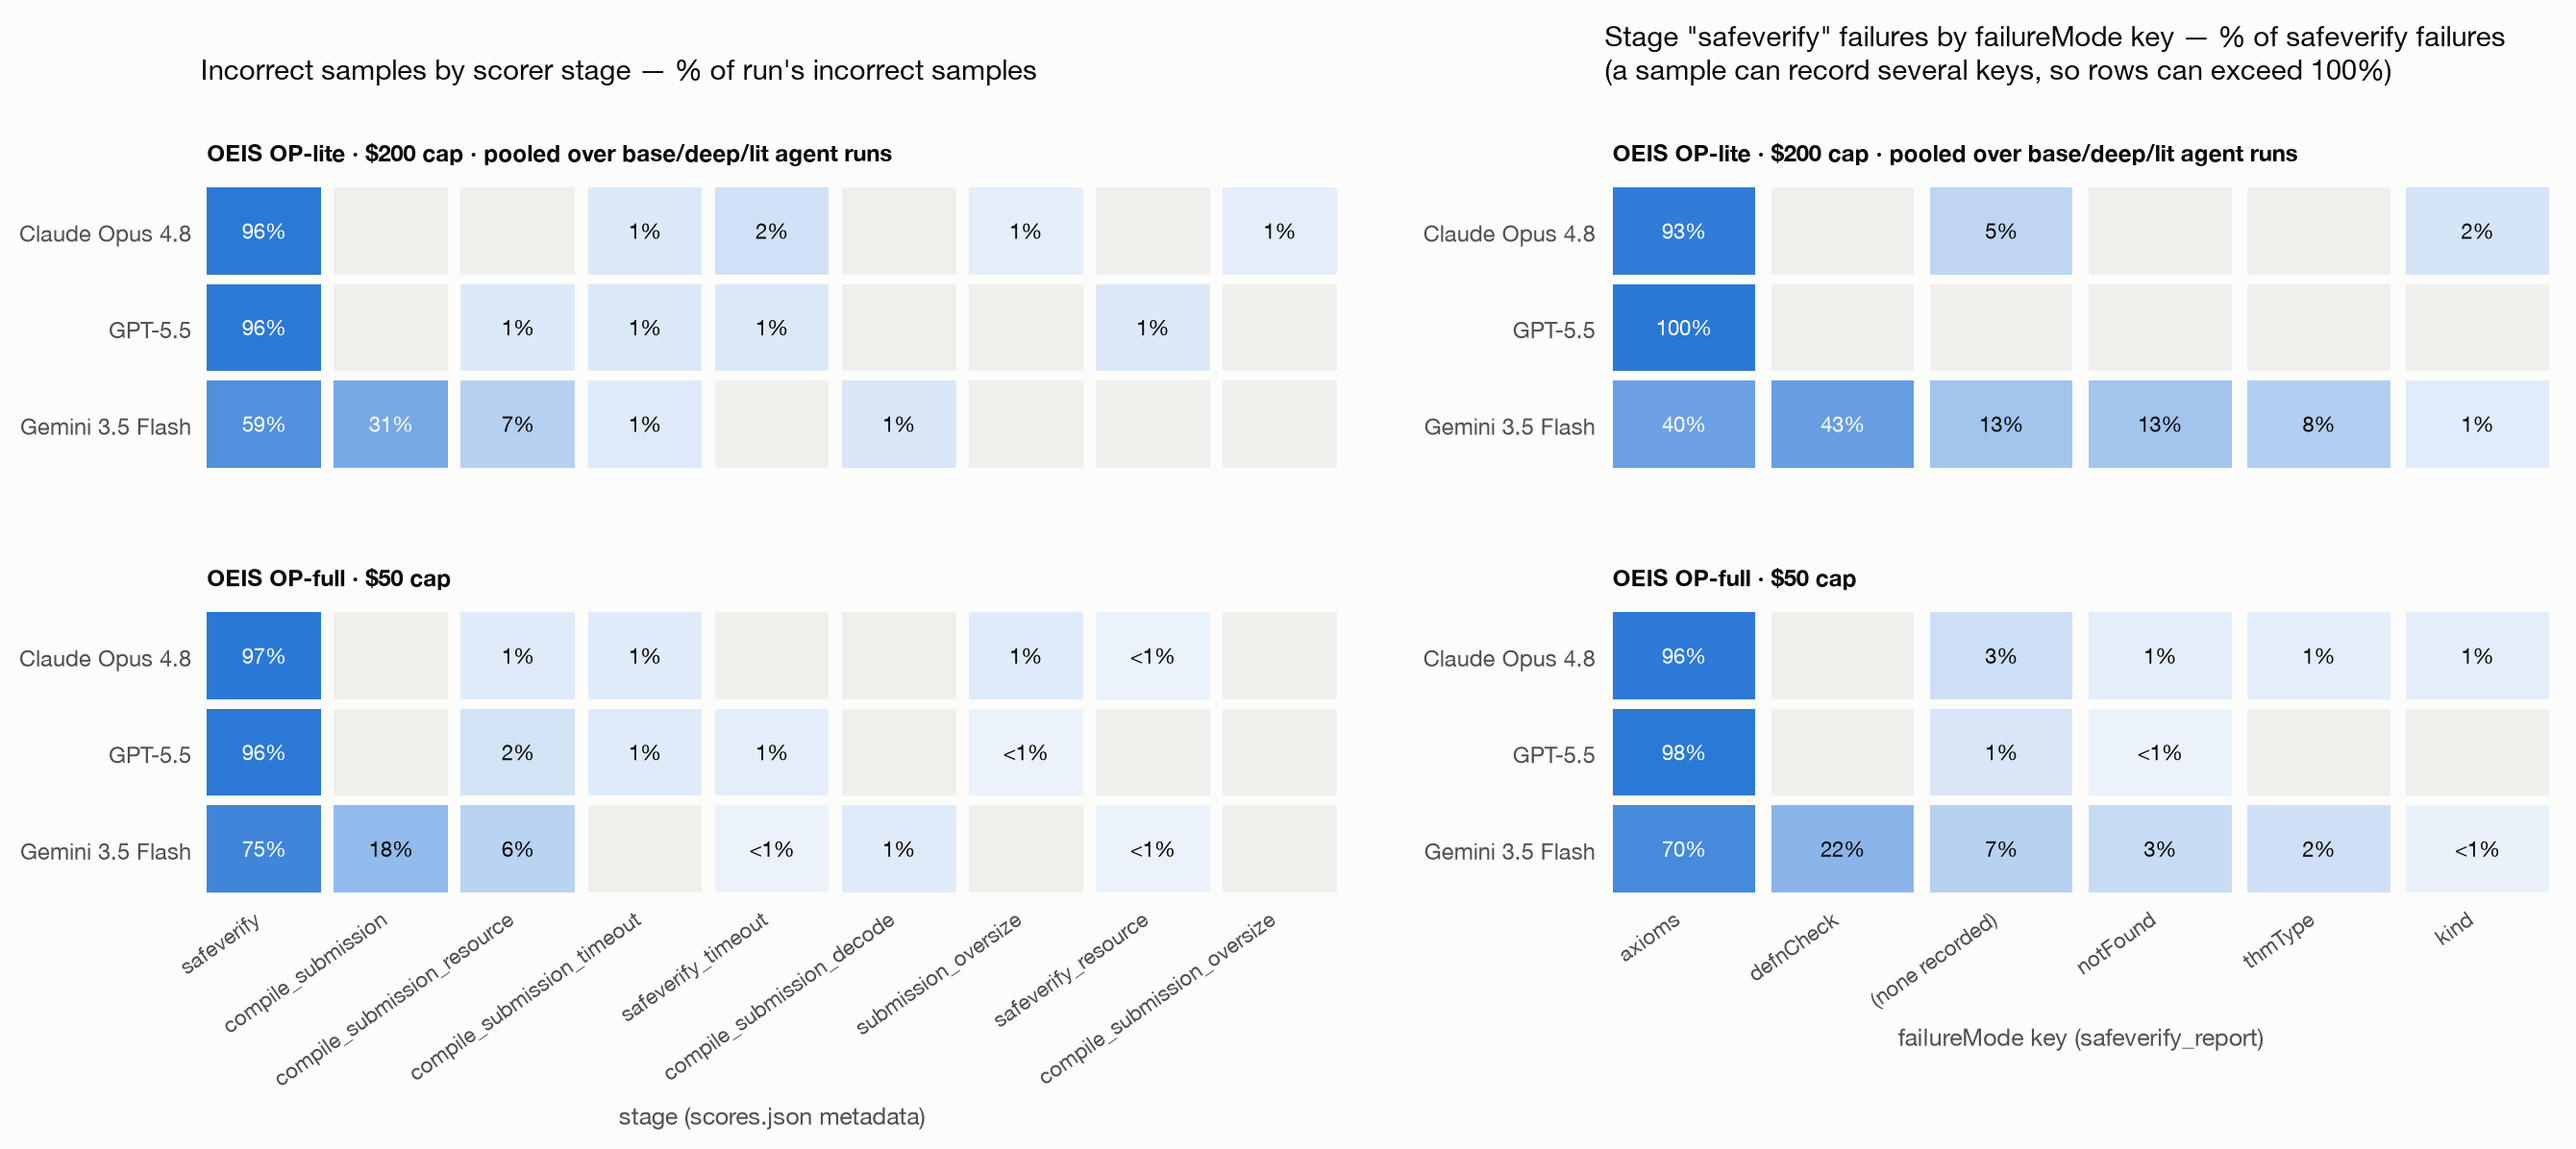
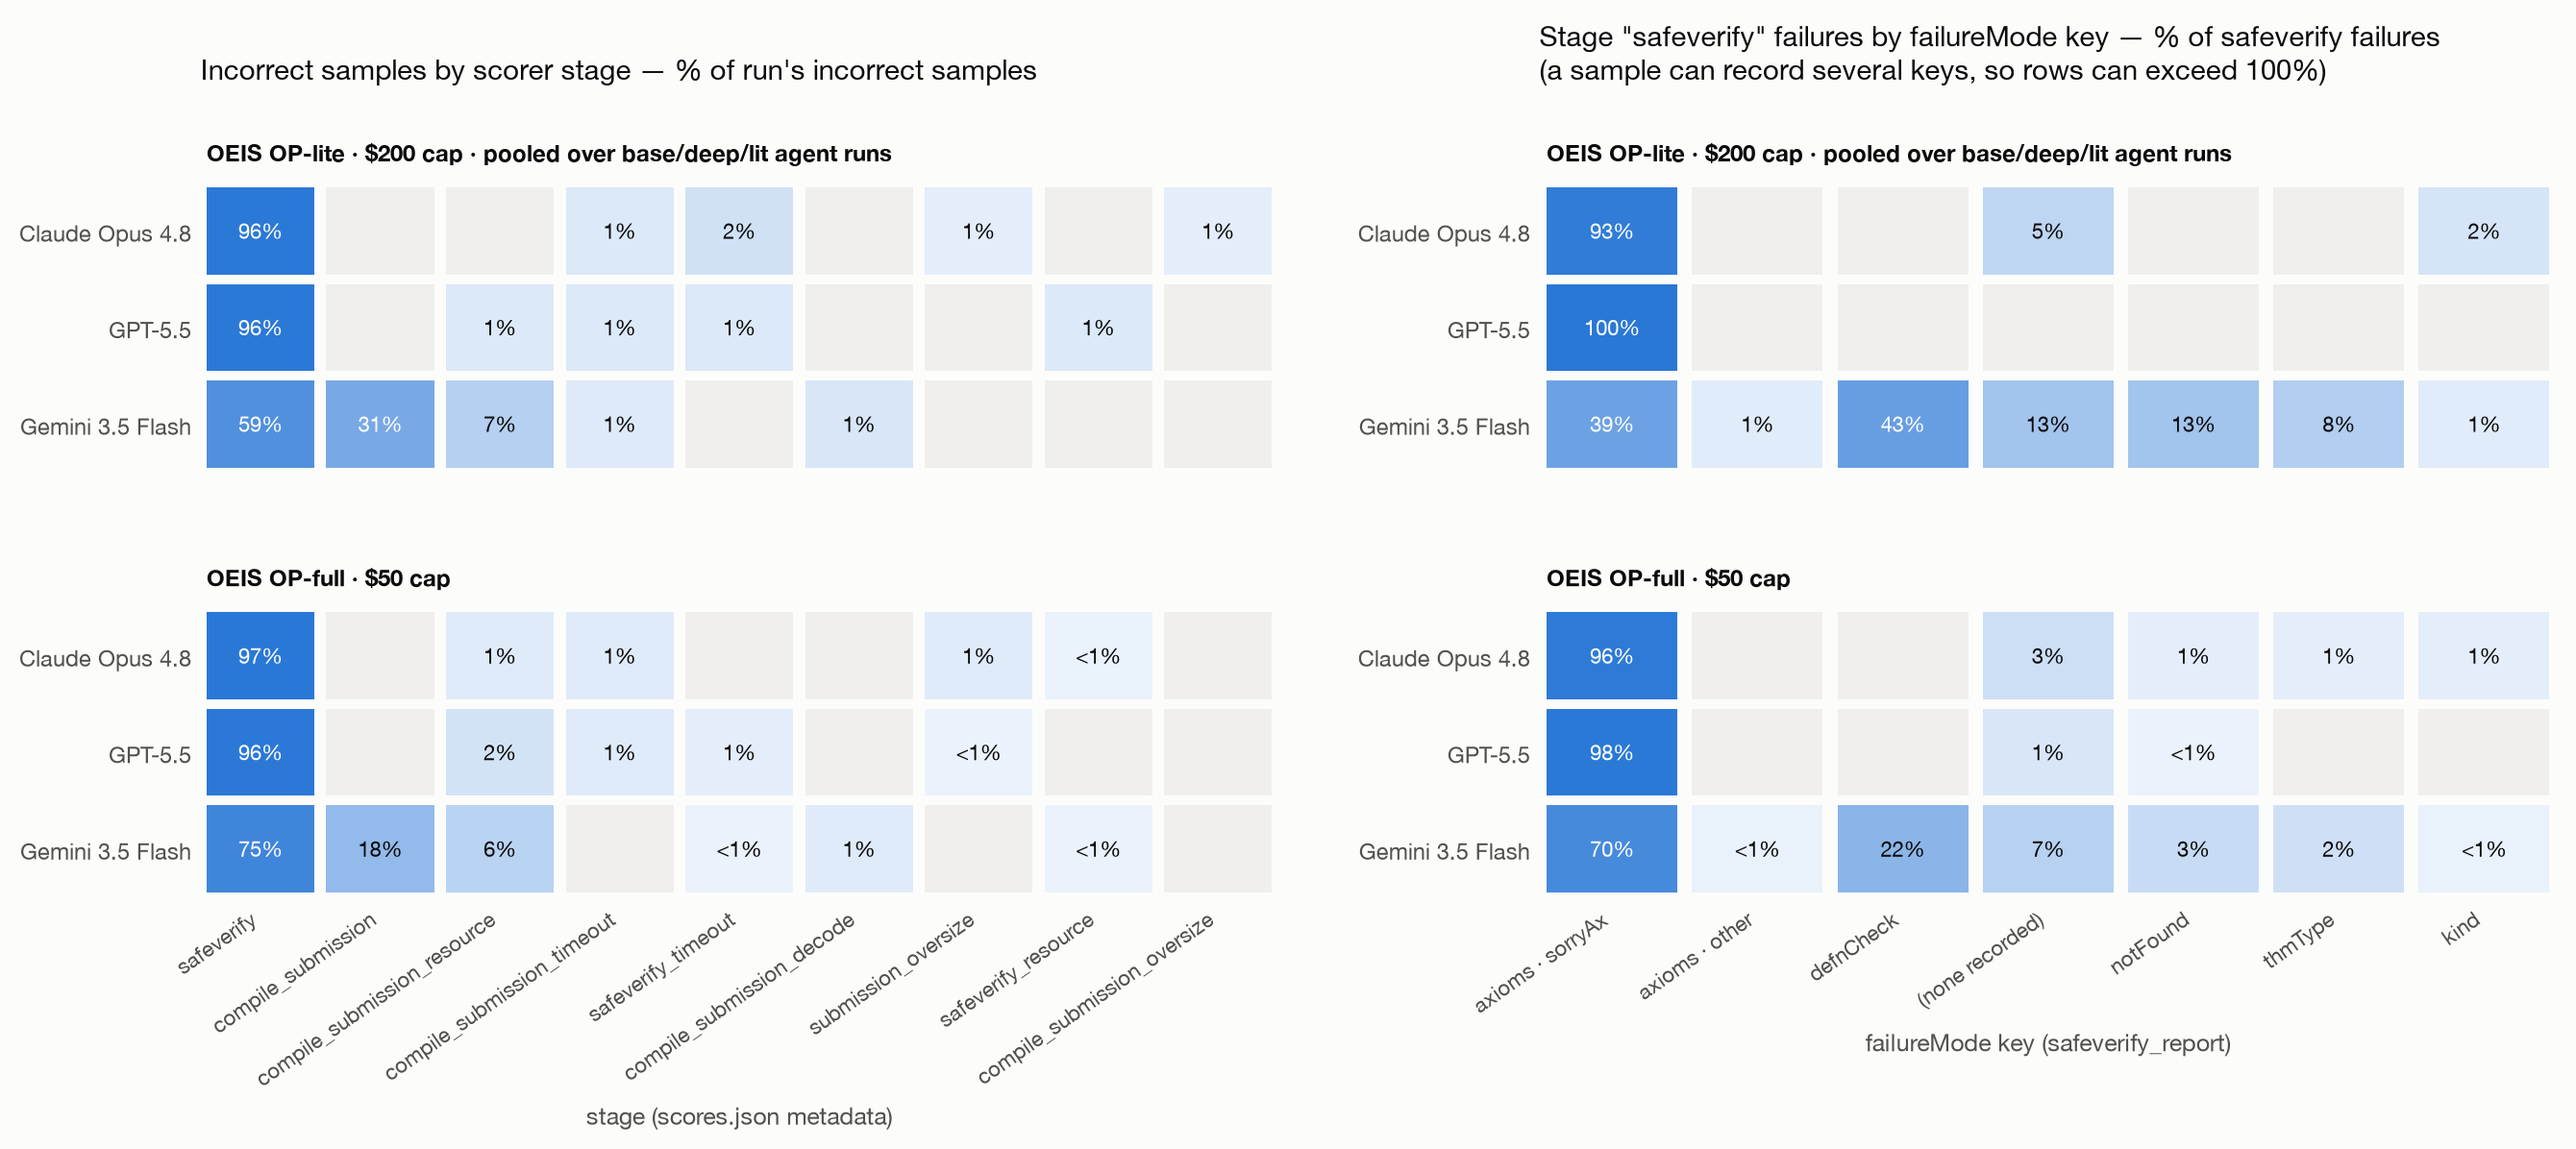
Split axioms failureMode by disallowed axiom; rename accuracy plot

diff --git a/plots/make_sample_plots.py b/plots/make_sample_plots.py
@@ -73,6 +73,15 @@ for top in sorted(LOGS.glob("*/*_plaintext/scores.json")):
             fm = entry[1].get("failureMode")
             if isinstance(fm, dict):
                 modes.update(fm.keys())
+            elif fm == "axioms":
+                # split by the disallowed axiom(s) the submission relies on
+                # (propext / Classical.choice / Quot.sound are permitted)
+                std = {"propext", "Classical.choice", "Quot.sound"}
+                used = set(((entry[1].get("solutionInfo") or {}).get("axioms")) or [])
+                if "sorryAx" in used:
+                    modes.add("axioms · sorryAx")
+                if used - std - {"sorryAx"}:
+                    modes.add("axioms · other")
             elif fm is not None:
                 modes.add(str(fm))
         samples[key][sd.name] = dict(
@@ -242,10 +251,15 @@ stage_counts = [pooled_shares(keys, stage_extract) for keys, _ in row_defs]
 mode_counts = [pooled_shares(keys, mode_extract) for keys, _ in row_defs]
 
 def col_order(rows):
+    """Columns by total share, but variants of one key ("x · a", "x · b") stay adjacent."""
     totals = Counter()
     for d in rows:
         totals.update(d)
-    return [c for c, _ in totals.most_common()]
+    groups = Counter()
+    for c, v in totals.items():
+        groups[c.split(" · ")[0]] += v
+    return sorted(totals, key=lambda c: (-groups[c.split(" · ")[0]],
+                                         c.split(" · ")[0], -totals[c]))
 
 stages = col_order(stage_counts)
 modes = col_order(mode_counts)

diff --git a/plots/make_plots.py b/plots/make_plots.py
@@ -126,5 +126,5 @@ if missing:
              transform=ax2.transAxes, ha="right", va="top", fontsize=8.5, color=MUTED)
 
 fig.tight_layout(w_pad=3)
-fig.savefig(OUT / "oeis_accuracy.png", dpi=200)
-print("wrote", OUT / "oeis_accuracy.png")
+fig.savefig(OUT / "accuracy.png", dpi=200)
+print("wrote", OUT / "accuracy.png")
